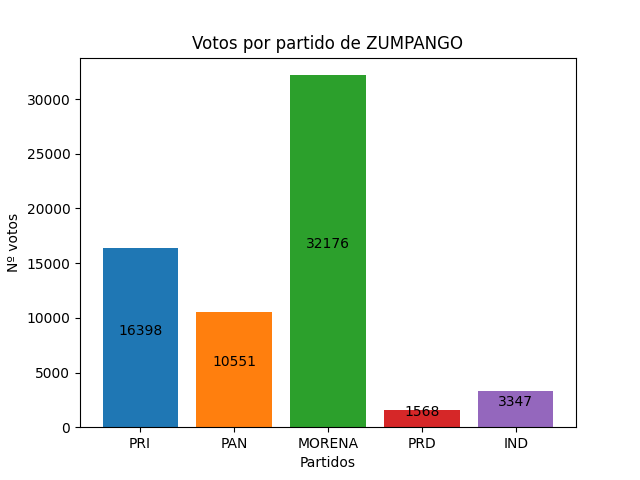
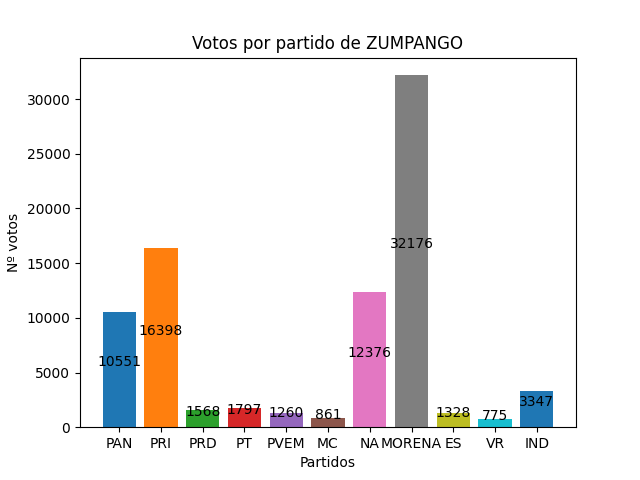
feat: :sparkles: PDF
creacion de pdf

Changed region(s): [[0.1562, 0.1562, 0.875, 0.9375]]

diff --git a/static/js/index.js b/static/js/index.js
@@ -32,6 +32,8 @@ const VARIOS = "varios";
 const RANGO = "rango";
 const NOMBRE = "nombre";
 const PARTIDOS = ["PAN","PRI", "PRD", "PT", "PVEM", "MC", "NA", "MORENA", "ES", "VR", "IND"];
+const COLORES = ["blue", "orange", "green", "red", "purpple", "ground", "pink", "gray", "yellow", "aqua", "black"]
+
 
 let boton = document.querySelector(".buscar")
 let buscador = document.querySelector(".Ibuscar")
@@ -117,6 +119,10 @@ boton_buscador.addEventListener("click", (e)=>{
                 for(let i = 0 ;i<datos_analizados.length;i++){
                     lista.push(Object.keys(data_s.datos[`m_${i}`]));
                 }
+                for(let i = 0;i<PARTIDOS.length;i++){
+                    let data = data_s.datos[`m_${i}`][lista[i]][PARTIDOS[j]];
+                    let arr = (data.reduce((total, num)=>total+num,0));
+                }
                 for(let i = 0;i<lista.length;i++){
                     let datasets = [];
                     graficas[lista[i]] = {};
@@ -124,7 +130,10 @@ boton_buscador.addEventListener("click", (e)=>{
 
                         let label =  PARTIDOS[j];
                         let data = data_s.datos[`m_${i}`][lista[i]][PARTIDOS[j]];
+                        //let data = parseInt(arr).reduce((total,num)=>total + num, 0)
+                        let arr = (data.reduce((total, num)=>total+num,0))
                         let background =  "red";
+                        console.log(arr)
                         datasets.push({label, data, background})
 
                         graficas[lista[i]]["id"] = lista[i];
@@ -145,7 +154,7 @@ boton_buscador.addEventListener("click", (e)=>{
                     canvas.setAttribute("class", `grafica${i}`);
                     let contexto = canvas.getContext("2d");
                     let char = new Chart(contexto, {
-                        type: "bar",
+                        type: graficas[lista[i]]["tipo"],
                         data: {
                           labels: PARTIDOS,
                           datasets: [

diff --git a/static/js/datos.js b/static/js/datos.js
@@ -71,7 +71,7 @@ function enviar_json (in_consulta, cabecera){
 }
 
 /* VALIDACION DE LOS INPUT-BOTON CONTINUAR */
-var id_municipio = "", anio_selec;
+var id_municipio = "", anio_selec, tipo;
 document.getElementById('btnContinuar').addEventListener('click', function () {
     let entrada_anio = document.querySelectorAll("input[name=in_anio]");
     entrada_anio.forEach(item=>{
@@ -107,6 +107,7 @@ document.getElementById('btnContinuar').addEventListener('click', function () {
                     'padron': cabecera_consul_Pa,
                     'pobreza': cabecera_consul_Po
                 }
+                tipo = item.value;
                 enviar_json(fil_consulta[item.value], fil_cabecera[item.value]);
             }else{
                 document.getElementById('v_emergen').classList.remove('v_emergen');
@@ -172,8 +173,24 @@ function imprimirElemento(elemento) {
 }
 
 document.getElementById('btnImprimir').addEventListener("click", function() {
-    var div = document.querySelector(".imprimible");
-    imprimirElemento(div);
+    //var div = document.querySelector(".imprimible");
+    //imprimirElemento(div);
+    let data = {
+        tipo_c: tipo,
+        year: anio_selec,
+        id: id_municipio
+    }
+    fetch('/impresiones', {
+        method: 'POST',
+        headers: {
+            'Content-Type': 'application/json'
+        },
+        body: JSON.stringify(data)
+    })
+    .then(response => response.json())
+    .then(data => {
+        console.log(data);
+    });
 });
 
 /* FUNCIONES PARA LOS MUNICIPIOS */

diff --git a/app.py b/app.py
@@ -7,6 +7,11 @@ import matplotlib.pyplot as plt
 from conexion import CONEXION
 import configparser
 import pymysql
+from static.pdf.plantillas.Apoyos import Apoyos
+from static.pdf.plantillas.Delincuencia import Delincuencia
+from static.pdf.plantillas.General import General
+from static.pdf.plantillas.PadronE import Padron
+from static.pdf.plantillas.Pobreza import Pobreza
 #constantes 
 COLUMNAS_A_ELIMINAR = ["CIRCUNSCRIPCION", "ID_ESTADO","NOMBRE_ESTADO", "ID_DISTRITO",
                         "CABECERA_DISTRITAL","ID_MUNICIPIO", "CASILLAS"]
@@ -482,13 +487,31 @@ def consultas():
     
     return jsonify(data)
 
-if __name__ == '__main__':
-    app.run(debug=True, port=8000)
+@app.route("/impresiones", methods=['POST'])
+def impresiones():
+    json = request.get_json()
+    conn = CONEXION(configuracion["database1"]["host"],
+                    configuracion["database1"]["port"],
+                    configuracion["database1"]["user"],
+                    configuracion["database1"]["passwd"],
+                    configuracion["database1"]["db"])
+    tipo = json["tipo_c"]
+    if(tipo=="apoyo"):
+        Apoyos.GenerarApoyos(int(json["year"]), int(json["id"]))
+    elif(tipo=="deli"):
+        Delincuencia.GenerarDelincuencia(int(json["year"]), int(json["id"]))
+    elif(tipo=="padron"):
+        Padron.GenerarPadron(int(json["year"]), int(json["id"]))
+    elif(tipo=="pobreza"):
+        Pobreza.GenerarPobreza(int(json["year"]), int(json["id"]))
+
+
+    return jsonify({"hola":"hola"})
 
 def interrupcion(sig, frame):
     print("Se ha interrumpido el programa con Ctrl+C")
     sys.exit(0)
 
 if __name__ == '__main__':
-    #signal.signal(signal.SIGINT, interrupcion)
+    signal.signal(signal.SIGINT, interrupcion)
     app.run(debug=True, port=8000)
